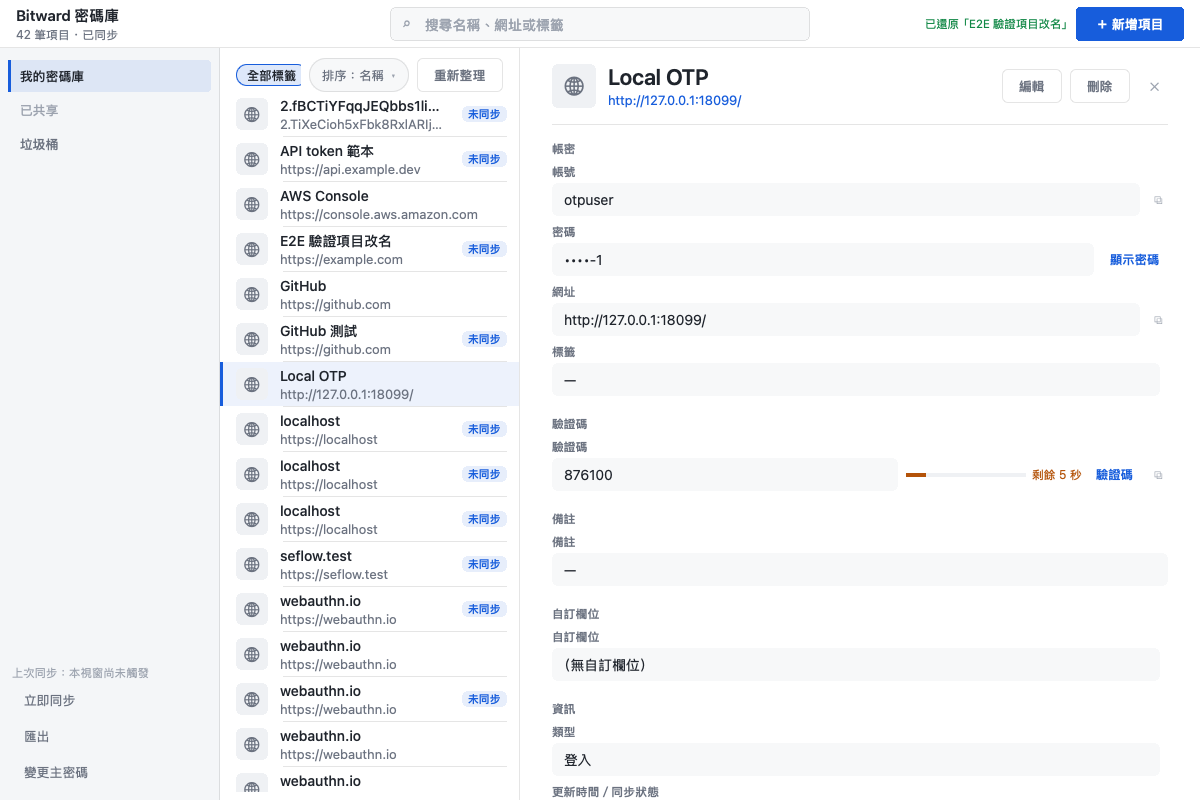
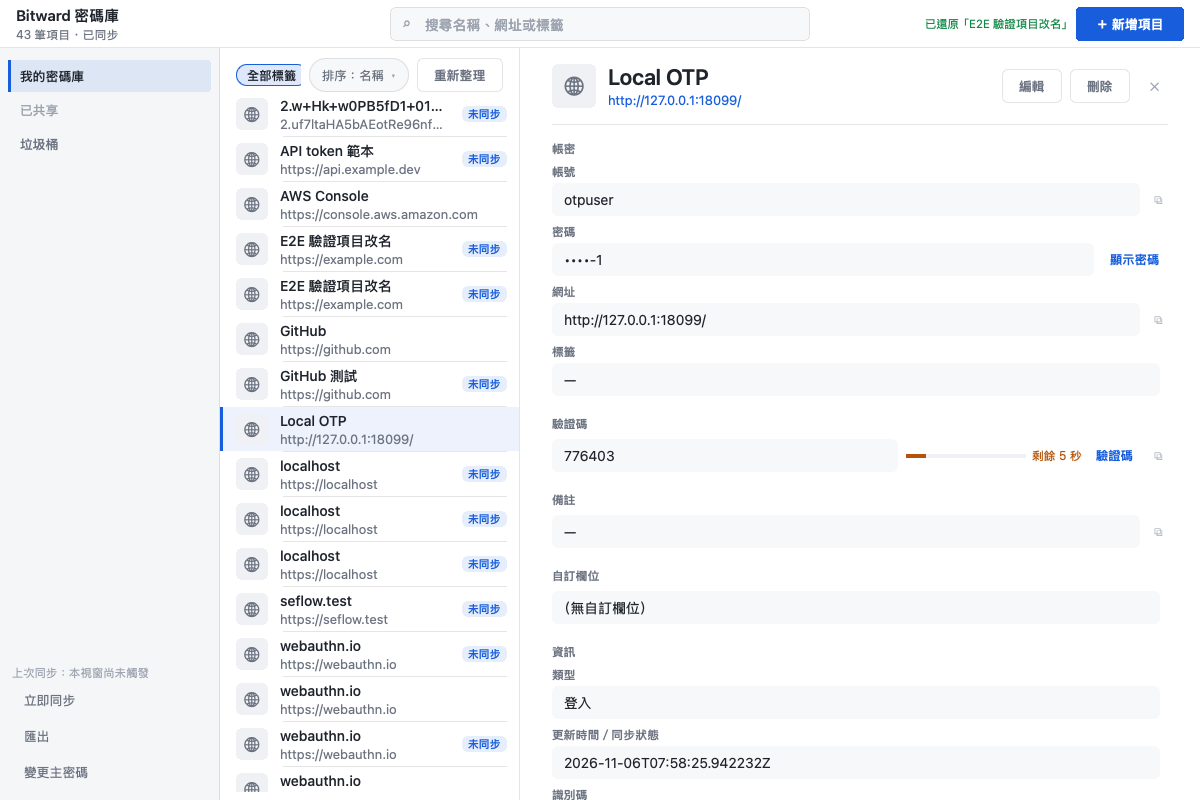
gui: 官方皮收尾——單欄分節去重複標籤、型別字形改單色 dingbat（⚷/✎）、鎖定態收搜尋與新增鈕、drain 證據流帶密碼繞過（daemon 400 已由主線修）＋README 跟隨

diff --git a/apps/bitward-gui/src/shots.rs b/apps/bitward-gui/src/shots.rs
@@ -145,6 +145,80 @@ fn at(ms: u64, f: impl FnOnce() + 'static) {
     set_timeout(Duration::from_millis(ms), f);
 }
 
+/// 收尾：AppKit main thread 上結束行程（非 macOS 直接 exit）。
+fn quit() {
+    on_main(|| {
+        #[cfg(target_os = "macos")]
+        {
+            use nsh_platform_macos::objc2::MainThreadMarker;
+            use nsh_platform_macos::objc2_app_kit::NSApplication;
+            if let Some(mtm) = MainThreadMarker::new() {
+                NSApplication::sharedApplication(mtm).terminate(None);
+            }
+        }
+        #[cfg(not(target_os = "macos"))]
+        std::process::exit(0);
+    });
+}
+
+/// 徽章收斂證據流（`NSH_GUI_SHOTS_DRAIN`）：VW 停機下建項目（徽章掛上＝
+/// shot-24）→ 外部腳本重啟 VW → 背景推送收斂發 `OutboxDrained` → 事件幫浦
+/// 自動重抓列表（零按鈕）→ 徽章消失＝shot-25。90 秒未收斂即斷言失敗。
+pub fn script_drain(dir: PathBuf, core: AppCore) {
+    let c = core.clone();
+    at(2600, move || c.send(Cmd::OpenCreate));
+    let c = core.clone();
+    at(3000, move || {
+        c.form.name.set("Drain 徽章驗證".into());
+        // 帶密碼欄：純名稱 Login 的 cipher 不帶 login 物件，VW 回 400
+        // "Data missing"（daemon encrypt_draft 缺 `"login":{}`，已報 Main）。
+        c.form.password.set("drain-secret-1".into());
+        c.send(Cmd::SubmitForm);
+    });
+    let c = core.clone();
+    at(4200, move || {
+        c.query.set("Drain 徽章驗證".into());
+        c.send(Cmd::RefetchList);
+    });
+    let d = dir.clone();
+    let c = core.clone();
+    at(5400, move || {
+        let row = find_view(&c, "Drain 徽章驗證");
+        assert!(
+            row.is_some_and(|v| v.meta.pending),
+            "shot-24 前提：新建項目應掛未同步徽章（確認 VW 已停）"
+        );
+        capture(&d, "shot-24-badge-pending.png");
+    });
+    poll_drained(dir, core, 7000);
+}
+
+fn poll_drained(dir: PathBuf, core: AppCore, ms: u64) {
+    let d = dir.clone();
+    let c = core.clone();
+    at(ms, move || {
+        let cleared = find_view(&c, "Drain 徽章驗證").is_some_and(|v| !v.meta.pending);
+        if cleared {
+            capture(&d, "shot-25-badge-cleared.png");
+            println!("bitward-gui: badge auto-cleared at {ms}ms (event-driven)");
+            at(ms + 800, quit);
+        } else if ms < 95000 {
+            poll_drained(dir, core, ms + 2000);
+        } else {
+            panic!("90 秒內未同步徽章未收斂：OutboxDrained 事件路徑失效？");
+        }
+    });
+}
+
+/// 由目前列表訊號找名字完全相符的項目視圖。
+fn find_view(core: &AppCore, name: &str) -> Option<bw_proto::ItemView> {
+    core.items
+        .get()
+        .iter()
+        .find(|v| v.meta.name.as_deref() == Some(name))
+        .cloned()
+}
+
 /// 開窗後依序跑完整驗收流：列表全量（密度證據）→ 搜尋 → 詳情遮罩 → revealed → 新增表單
 /// 模態 → 提交新增 → 編輯改名 → 刪除確認（先取消斷言、再確認）→
 /// 匯出確認 → 鎖態頁/解鎖 → 選取態 → 垃圾桶（列表/還原動作/還原後列表）→
@@ -379,20 +453,7 @@ pub fn script(dir: PathBuf, core: AppCore) {
     });
     let d = dir.clone();
     at(38000, move || capture(&d, "shot-23-totp-5s.png"));
-    at(38600, move || {
-        on_main(|| {
-            #[cfg(target_os = "macos")]
-            {
-                use nsh_platform_macos::objc2::MainThreadMarker;
-                use nsh_platform_macos::objc2_app_kit::NSApplication;
-                if let Some(mtm) = MainThreadMarker::new() {
-                    NSApplication::sharedApplication(mtm).terminate(None);
-                }
-            }
-            #[cfg(not(target_os = "macos"))]
-            std::process::exit(0);
-        });
-    });
+    at(38600, quit);
 }
 
 /// 由目前列表訊號找名字完全相符的項目 id。

diff --git a/apps/bitward-gui/src/lib.rs b/apps/bitward-gui/src/lib.rs
@@ -4,9 +4,9 @@
 //! 投遞 `Cmd`，`set_interval` 幫浦在引擎執行緒上 `reduce`；需要 daemon 的
 //! 動作派到 worker 執行緒（`btp::Session` 同步 UDS client），worker 只準
 //! 回傳 `Cmd`、不碰訊號。分級、過濾、排序語意全在 daemon（零業務邏輯在
-//! GUI）；導航是 `Route` 狀態機＋主從式版面（列表常駐左欄、詳情走右欄、
+//! GUI）；導航是 `Route` 狀態機＋官方三欄骨架（左側欄｜中列表欄｜右詳情欄，
 //! 新增/編輯與確認走模態；nav_stack 在 macOS dev host 不渲染，spike
-//! FINDINGS 卡點 4）。外觀代幣全在 `theme`。
+//! FINDINGS 卡點 4）。外觀代幣全在 `theme`（本批發官方淺色皮）。
 
 mod btp;
 mod detail;
@@ -121,7 +121,11 @@ pub fn App() -> impl IntoElement {
         }
     });
     if let Some(dir) = std::env::var_os("NSH_GUI_SHOTS").map(PathBuf::from) {
-        shots::script(dir, core.clone());
+        if std::env::var_os("NSH_GUI_SHOTS_DRAIN").is_some() {
+            shots::script_drain(dir, core.clone());
+        } else {
+            shots::script(dir, core.clone());
+        }
     }
 
     let conn_cond = core.clone();
@@ -181,6 +185,9 @@ fn topbar(core: AppCore) -> View {
     let notice_cond = core.clone();
     let notice_build = core.clone();
     let new_core = core.clone();
+    let add_cond = core.clone();
+    let search_cond = core.clone();
+    let search_build = core.clone();
     view()
         .flex_row()
         .items_center()
@@ -234,7 +241,10 @@ fn topbar(core: AppCore) -> View {
                         )),
                 ),
         )
-        .child(list::search(core.clone()))
+        .child(when(
+            move || state::is_unlocked(&search_cond.vault.get()),
+            move || list::search(search_build.clone()),
+        ))
         .child(
             view()
                 .flex_1()
@@ -255,9 +265,15 @@ fn topbar(core: AppCore) -> View {
                         )
                     },
                 ))
-                .child(ui::button("＋ 新增項目", ui::Btn::PrimaryWide, move || {
-                    new_core.send(Cmd::OpenCreate)
-                })),
+                .child(when(
+                    move || state::is_unlocked(&add_cond.vault.get()),
+                    move || {
+                        let n = new_core.clone();
+                        ui::button("＋ 新增項目", ui::Btn::PrimaryWide, move || {
+                            n.send(Cmd::OpenCreate)
+                        })
+                    },
+                )),
         )
 }
 

diff --git a/apps/bitward-gui/src/ui.rs b/apps/bitward-gui/src/ui.rs
@@ -1,4 +1,4 @@
-//! 共用小元件：按鈕、徽章、monogram、欄位列、下拉面板、模態殼。
+//! 共用小元件：按鈕（藍實色）、徽章、型別磚、值塊欄位、下拉面板、模態殼。
 //! 樣式 setter 只在建立時求值（spike FINDINGS 卡點 1），所以反應式樣式
 //! 一律在閉包內讀 theme()/訊號；固定外觀直接給值。顏色全部出自
 //! `crate::theme` tokens，本檔不寫 hex。
@@ -328,13 +328,14 @@ pub fn change_password_modal(core: AppCore) -> View {
 }
 
 /// 型別字形：官方用單色 icon；nsh 無 icon 系統，以 Unicode 字形＋
-/// U+FE0E（text presentation）強制單色、跟文字色走。
+/// U+FE0E（text presentation）強制單色、跟文字色走。Card 的 💳 在
+/// macOS 仍可能落到彩色 emoji（無單色 dingbat 對等字），屬已知取捨。
 pub fn type_glyph(kind: ItemKind) -> &'static str {
     match kind {
         ItemKind::Login => "🌐\u{fe0e}",
         ItemKind::Card => "💳\u{fe0e}",
-        ItemKind::Identity => "🔑\u{fe0e}",
-        ItemKind::SecureNote => "📝\u{fe0e}",
+        ItemKind::Identity => "⚷\u{fe0e}",
+        ItemKind::SecureNote => "✎\u{fe0e}",
     }
 }
 

diff --git a/apps/bitward-gui/src/state.rs b/apps/bitward-gui/src/state.rs
@@ -1073,6 +1073,11 @@ pub fn can_unlock(st: &Option<UnlockStateView>) -> bool {
 /// 「變更主密碼」只在解鎖態開放（daemon 改密需舊 user key 驗金鑰鏈，
 /// 鎖定態送出必被閘下；前端直接把鈕藏掉比讓它报错誠實）。
 pub fn can_change_password(st: &Option<UnlockStateView>) -> bool {
+    is_unlocked(st)
+}
+
+/// 解鎖態判定（頂部列搜尋/新增鈕的顯示閘：鎖定態官方不給庫操作入口）。
+pub fn is_unlocked(st: &Option<UnlockStateView>) -> bool {
     matches!(st, Some(UnlockStateView::Unlocked { .. }))
 }
 

diff --git a/apps/bitward-gui/src/detail.rs b/apps/bitward-gui/src/detail.rs
@@ -74,7 +74,11 @@ pub fn placeholder() -> View {
                 .flex_row()
                 .items_center()
                 .justify_center()
-                .child(text("🔑\u{fe0e}").text_size(px(theme::GLYPH_KEY)).text_color(theme::TEXT_SECONDARY)),
+                .child(
+                    text("⚷\u{fe0e}")
+                        .text_size(px(theme::GLYPH_KEY))
+                        .text_color(theme::TEXT_SECONDARY),
+                ),
         )
         .child(
             text("選取一個項目")
